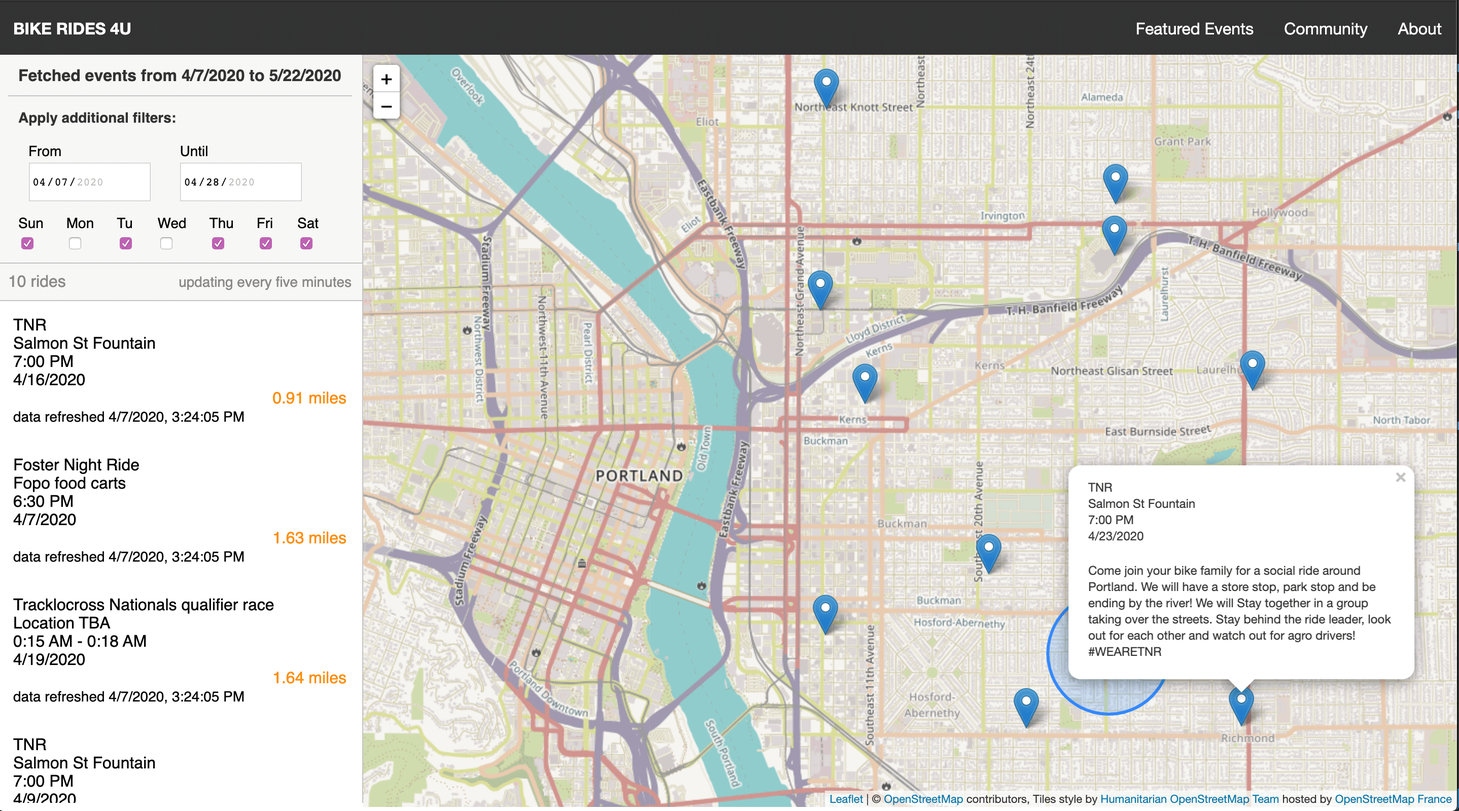
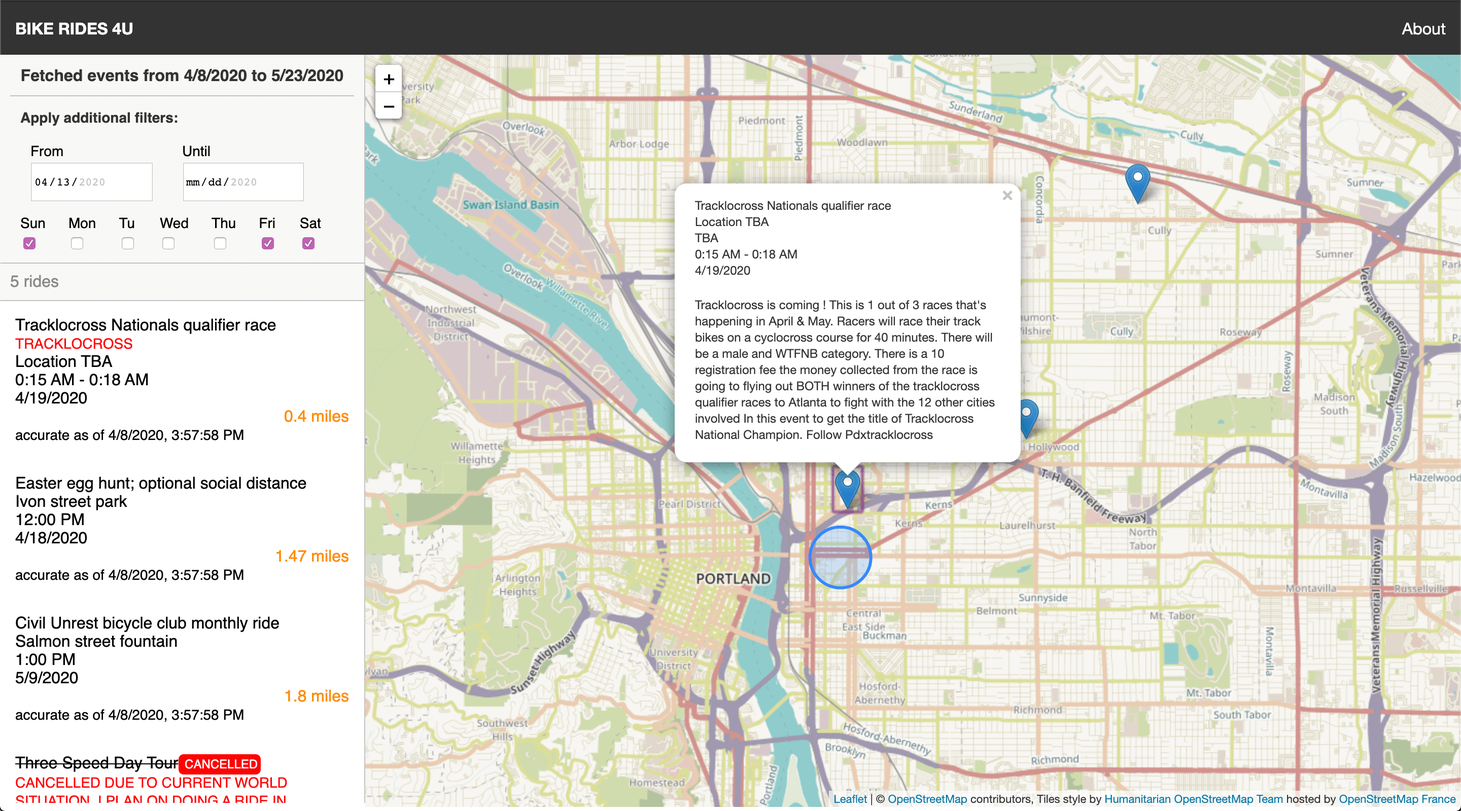
Update NavBar, About, assets

diff --git a/src/pages/About.tsx b/src/pages/About.tsx
@@ -1,40 +1,48 @@
 import React from 'react';
+import { Link } from '../components';
 
 export function About(): JSX.Element {
   return (
     <div className="page-container">
       <div className="page-content">
-        <h1>Mission Statement</h1>
-        <h2>Shift’s mission is to promote inclusive bike fun.</h2>
-        <p>
-          As a loose-knit and informal bunch of bike-loving folks, we ask for no membership, nor dues, only a shared
-          passion for the bicycle in all its glory: as toy, as transportation, as a tool for social and environmental
-          change!
-        </p>
-        <p>SHIFT, then, is open to everyone sharing in this passion.</p>
-        <p>
-          And where would the fun be if we weren’t at least semi-organized?! Yes, SHIFT folks do plan, execute,
-          publicize, and get involved in the celebration of bicycle events. We hope you’ll be inspired to join in on the
-          bike fun too!
-        </p>
-        <h2>Our History</h2>
-        <p>
-          In August 2002, Portland hosted Bike Summer, a month-long celebration of bicycles and bike culture that drew
-          more than 5,000 participants to events including bike-in movies, family rides, bike-repair workshops and more.
-          A combination of the overwhelming Community response to the month’s activities and the strong feelings of
-          comradery and energy among the primary Bike Summer organizers led to the formation of SHIFT in September 2002.
-        </p>
-        <p>
-          Bike Summer also provided an organizational model for Shift: a central committee creates a communications
-          infrastructure for events designed and executed by anyone in the bicycle community. You have an idea for an
-          event? Great! We will help you get the word out. For starters, you can submit your bike event to our calendar.
-        </p>
-        <h2>Our Activities</h2>
-        <p>
-          SHIFT also facilitates lots of events. Examples of SHIFT-related activities include breakfast give aways,
-          social rides, educational bike tours, actions to raise awareness about cyclist injuries or deaths,
-          information-sharing events, art-bike parades and more.
-        </p>
+        <h1>Bike Rides 4 U</h1>
+        <div>
+          <p>This website is a labor of love and is not affiliated with the organization Shift2Bikes.</p>
+          <p>
+            The web app pings the Shift2Bikes calendar API and displays bike fun events on an interactive map. Rides are
+            initially sorted according to distance from user, if the user allows location sharing. Otherwise the events
+            are sorted according to distance from Thai Champa, my favorite Thai food cart.
+          </p>
+          <p>
+            This project is open source. If you would like to collaborate, you&apos;re welcome to open an issue on its{' '}
+            <Link href="https://github.com/theholla/shift2bikes-ride-map" text="Github repository" /> and submit a pull
+            request.
+          </p>
+        </div>
+        <h2>Is something broken or wrong?</h2>
+        <div>
+          <p>
+            Please reach out to bikerides4u@gmail.com with the issue and some details, such as:
+            <ul>
+              <li>Browser (Firefox, Safari, etc)</li>
+              <li>Type of device (Android phone, MacBook, etc.)</li>
+              <li>Any repeatable steps that might reproduce the issue</li>
+            </ul>
+          </p>
+        </div>
+        <h2>About Shift2Bikes</h2>
+        <div>
+          <p>This website is not affiliated with Shift2Bikes.org. But we do think they&apos;re awesome!</p>
+          <p>
+            Shift&apos;s mission is to promote inclusive bike fun. Shift also facilitates lots of events. Examples of
+            Shift-related activities include breakfast give aways, social rides, educational bike tours, actions to
+            raise awareness about cyclist injuries or deaths, information-sharing events, art-bike parades and more.
+          </p>
+          <p>
+            See <Link href="http://shift2bikes.org/" text="Shift2Bikes.org" /> for more information about bike fun in
+            Portland.
+          </p>
+        </div>
       </div>
     </div>
   );

diff --git a/src/App.tsx b/src/App.tsx
@@ -1,7 +1,7 @@
 import React from 'react';
 import { BrowserRouter as Router, Switch, Route } from 'react-router-dom';
 import { NavBar } from './components';
-import { About, Community, Featured, Home } from './pages';
+import { About, Home } from './pages';
 import './App.css';
 
 function App(): JSX.Element {
@@ -10,12 +10,6 @@ function App(): JSX.Element {
       <div className="root">
         <NavBar />
         <Switch>
-          <Route path="/featured">
-            <Featured />
-          </Route>
-          <Route path="/community">
-            <Community />
-          </Route>
           <Route path="/about">
             <About />
           </Route>

diff --git a/src/components/NavBar.tsx b/src/components/NavBar.tsx
@@ -8,13 +8,7 @@ export function NavBar(): JSX.Element {
       <Link to="/" className="nav-bar-item link" id="logo">
         Bike Rides 4U
       </Link>
-      <Link to="/featured" className="nav-bar-item link push">
-        Featured Events
-      </Link>
-      <Link to="/community" className="nav-bar-item link">
-        Community
-      </Link>
-      <Link to="/about" className="nav-bar-item link">
+      <Link to="/about" className="nav-bar-item link push">
         About
       </Link>
     </div>

diff --git a/src/components/Link.tsx b/src/components/Link.tsx
@@ -1,0 +1,14 @@
+import React from 'react';
+
+type LinkProps = {
+  href: string;
+  text: string;
+};
+export function Link(props: LinkProps): JSX.Element {
+  const { href, text } = props;
+  return (
+    <a target="blank" rel="noopener noreferrer" href={href}>
+      {text}
+    </a>
+  );
+}

diff --git a/src/App.css b/src/App.css
@@ -35,5 +35,15 @@ a {
 }
 
 .page-content {
-  width: 75vw;
+  display: flex;
+  flex-direction: column;
+}
+.page-content h1,
+h2,
+h3 {
+  text-align: center;
+}
+.page-content div {
+  max-width: 800px;
+  padding: 5px;
 }

diff --git a/src/components/Controls.css b/src/components/Controls.css
@@ -29,6 +29,7 @@
 }
 .filters-header {
   font-size: 14px;
+  text-align: left;
 }
 .form-label {
   display: block;
@@ -52,7 +53,4 @@
 }
 .form-checkbox {
   flex-grow: 1;
-}
-.ride-update-cadence {
-  font-size: 14px;
 }

diff --git a/src/pages/index.tsx b/src/pages/index.tsx
@@ -1,4 +1,2 @@
 export * from './About';
-export * from './Community';
-export * from './Featured';
 export * from './Home';

diff --git a/README.md b/README.md
@@ -1,6 +1,6 @@
 # Shift2Bikes Ride Map
 
-This web app pings the Shift2Bikes calendar API on a regular cadence and displays bike rides on an interactive map. Users can apply filters to find rides that are relevant to them.
+This web app pings the Shift2Bikes calendar API and displays bike rides on an interactive map. Users can apply filters to find rides that are relevant to them.
 
 ## Current UI
 
